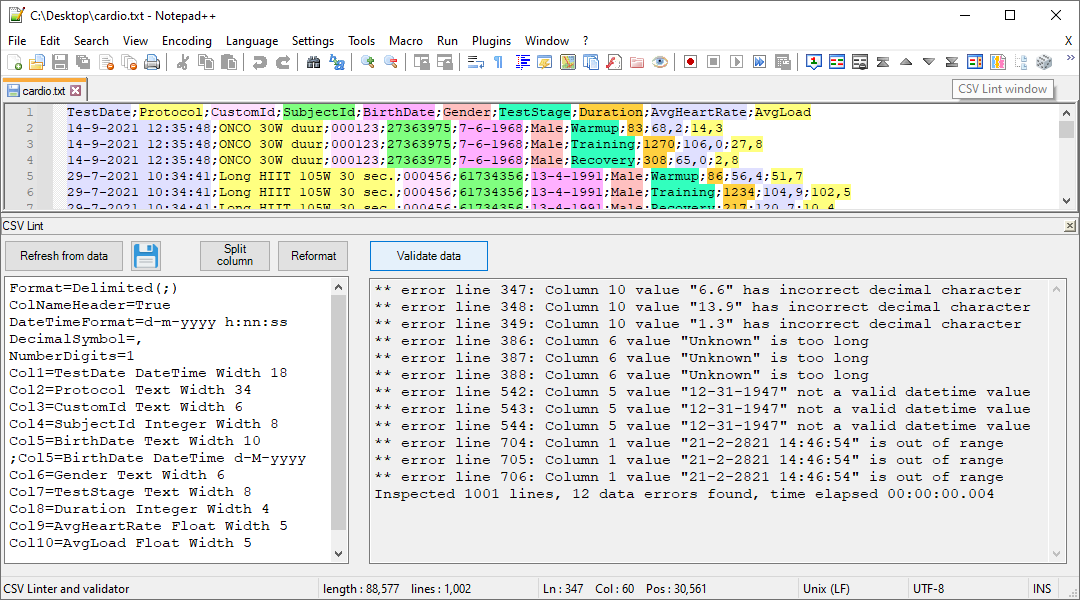
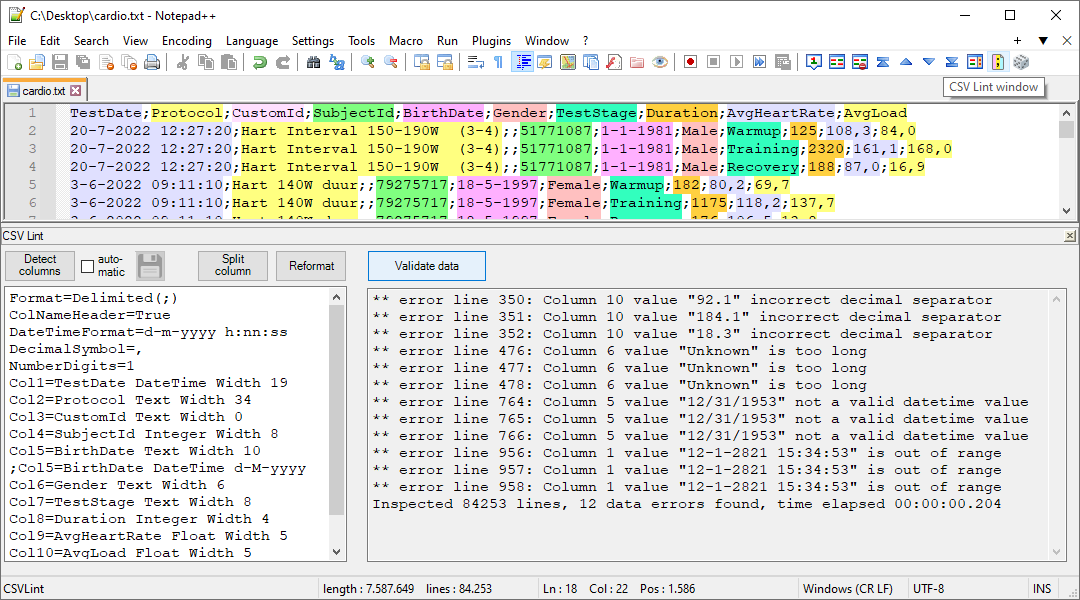
Update readme and screenshots

diff --git a/CSVLintNppPlugin/CsvLint/CsvAnalyze.cs b/CSVLintNppPlugin/CsvLint/CsvAnalyze.cs
@@ -117,7 +117,7 @@ namespace CSVLint
                             // ignore characters that can be both numeric or alpha values example "A.B." or "Smith-Johnson"
                             // Digits connected by certain characters can be one single column, not multiple,
                             // For example date, time, telephonenr "12:34","555-890-4327" etc.
-                            int ignore = ".-+:/\\".IndexOf(chr);
+                            int ignore = ",.-+:/\\".IndexOf(chr);
                             if (ignore < 0)
                             {
                                 if (isdigit < 0)

diff --git a/readme.md b/readme.md
@@ -54,7 +54,7 @@ How to use it
 
 1. Open your dataset in [Notepad++](http://notepad-plus-plus.org/)
 2. Open the "CSV Lint window" from the plug-in menu or toolbar
-3. Press "Refresh from data" to automatically detect format
+3. Press "Detect columns" to automatically detect format
 4. Optionally, manually enter or adjust metadata
 5. Press "Validate data" to detect any data errors
 
@@ -140,9 +140,9 @@ Trouble shooting / Known issues
 -------------------------------
 * When you press the "Validate Data" button after editing the data file, the text and metadata are not
 always synchronised immediately. if you get unexpected validation results, try saving the datafile
-or refreshing the meta data before clicking "Refresh from data".
+or refreshing the meta data before clicking "Detect columns".
 
-* When you press "Refresh from data" the datetime format of the data isn't always detected correctly.
+* When you press "Detect columns" the datetime format of the data isn't always detected correctly.
 Especially when the data contains values like `05/06/2021` the order of day and month can be incorrect.
 You can adjust it manually to match your data before pressing the "Validate data" button.
 
